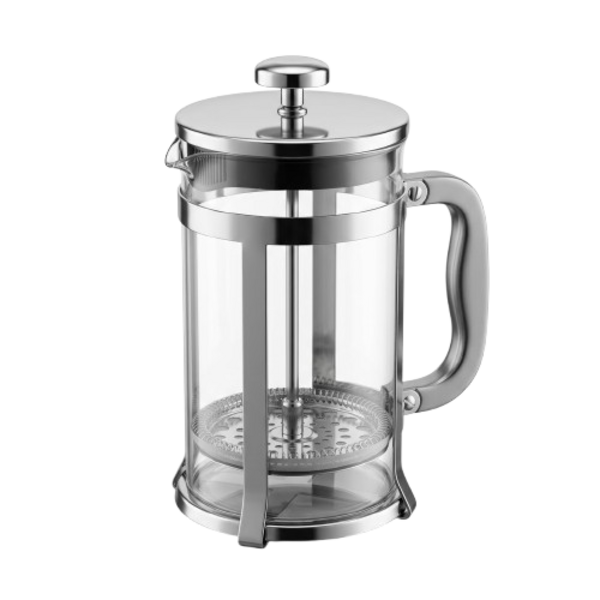
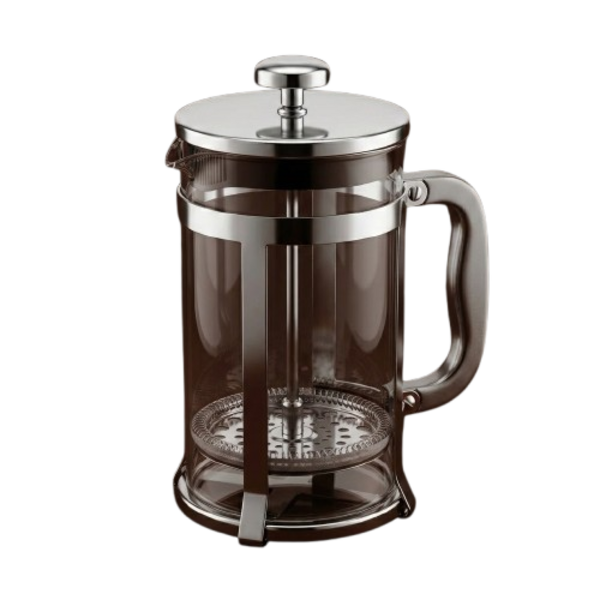
Reemplazar fotos de prensa francesa, V60 y moka por versiones sin fondo

Changed region(s): [[0.27, 0.21, 0.81, 0.93], [0.42, 0.12, 0.48, 0.15], [0.51, 0.12, 0.54, 0.15]]

diff --git a/app/components/ReviewReactions.tsx b/app/components/ReviewReactions.tsx
@@ -1,0 +1,107 @@
+"use client";
+
+import { useState, useRef, type ReactNode } from "react";
+
+const REACTION_EMOJIS = ["👍🏻", "👎🏻", "😂", "👀", "👄"];
+
+type ReactionCount = { emoji: string; count: number };
+
+export default function ReviewReactions({
+  reviewId,
+  initialReactions,
+  initialMyReaction,
+  children,
+}: {
+  reviewId: string;
+  initialReactions: ReactionCount[];
+  initialMyReaction: string | null;
+  children: ReactNode;
+}) {
+  const [reactions, setReactions] = useState<ReactionCount[]>(initialReactions);
+  const [myReaction, setMyReaction] = useState<string | null>(initialMyReaction);
+  const [showPicker, setShowPicker] = useState(false);
+  const [sending, setSending] = useState(false);
+  const timerRef = useRef<ReturnType<typeof setTimeout> | null>(null);
+
+  async function react(emoji: string) {
+    if (sending) return;
+    setSending(true);
+    setShowPicker(false);
+    try {
+      const res = await fetch(`/api/reviews/${reviewId}/reactions`, {
+        method: "POST",
+        headers: { "Content-Type": "application/json" },
+        body: JSON.stringify({ emoji }),
+      });
+      const data = await res.json();
+      if (data.ok) {
+        setReactions(data.reactions);
+        setMyReaction(data.myReaction);
+      }
+    } finally {
+      setSending(false);
+    }
+  }
+
+  function startPress() {
+    timerRef.current = setTimeout(() => setShowPicker(true), 450);
+  }
+  function cancelPress() {
+    if (timerRef.current) clearTimeout(timerRef.current);
+  }
+
+  return (
+    <div
+      className="relative bg-parchment/[0.04] border border-parchment-dim/15 rounded-sm p-5"
+      onMouseEnter={() => setShowPicker(true)}
+      onMouseLeave={() => setShowPicker(false)}
+      onTouchStart={startPress}
+      onTouchEnd={cancelPress}
+      onTouchMove={cancelPress}
+    >
+      {children}
+
+      {(reactions.length > 0 || showPicker) && (
+        <div className="flex items-center gap-1.5 flex-wrap mt-3 pt-3 border-t border-parchment-dim/15">
+          {reactions.length > 0
+            ? reactions.map((r) => (
+                <button
+                  key={r.emoji}
+                  type="button"
+                  onClick={() => react(r.emoji)}
+                  className={`flex items-center gap-1 px-2 py-0.5 rounded-full border text-xs transition-colors ${
+                    myReaction === r.emoji
+                      ? "border-crema bg-crema/10"
+                      : "border-parchment-dim/20 hover:border-parchment-dim/40"
+                  }`}
+                >
+                  <span>{r.emoji}</span>
+                  {r.count > 1 && (
+                    <span className="font-mono text-[10px] text-parchment-dim">{r.count}</span>
+                  )}
+                </button>
+              ))
+            : showPicker && (
+                <span className="font-mono text-[10px] text-parchment-dim/60">Reaccionar</span>
+              )}
+        </div>
+      )}
+
+      {showPicker && (
+        <div className="absolute bottom-full left-5 mb-1.5 flex gap-1 bg-ink-soft border border-parchment-dim/25 rounded-full px-2.5 py-1.5 shadow-xl z-20">
+          {REACTION_EMOJIS.map((emoji) => (
+            <button
+              key={emoji}
+              type="button"
+              onClick={() => react(emoji)}
+              aria-label={`Reaccionar con ${emoji}`}
+              className="text-lg hover:scale-125 transition-transform"
+            >
+              {emoji}
+            </button>
+          ))}
+        </div>
+      )}
+    </div>
+  );
+}

diff --git a/app/api/reviews/[id]/reactions/route.ts b/app/api/reviews/[id]/reactions/route.ts
@@ -1,0 +1,73 @@
+import { NextRequest, NextResponse } from 'next/server';
+import { getServerSession } from 'next-auth';
+import { authOptions } from '@/lib/auth';
+import sql from '@/lib/db';
+
+const ALLOWED_EMOJIS = ['👍🏻', '👎🏻', '😂', '👀', '👄'];
+
+export async function POST(req: NextRequest, { params }: { params: { id: string } }) {
+  const session = await getServerSession(authOptions);
+  if (!session?.user?.email) {
+    return NextResponse.json({ ok: false, error: 'Tenés que iniciar sesión.' }, { status: 401 });
+  }
+
+  const body = await req.json();
+  if (!ALLOWED_EMOJIS.includes(body.emoji)) {
+    return NextResponse.json({ ok: false, error: 'Emoji no permitido.' }, { status: 400 });
+  }
+
+  try {
+    const reviewRows = await sql`select user_email from coffee_reviews where id = ${params.id}`;
+    const review = reviewRows[0] as { user_email: string | null } | undefined;
+    if (!review) {
+      return NextResponse.json({ ok: false, error: 'No existe esa review.' }, { status: 404 });
+    }
+
+    // Solo podés reaccionar a reviews de gente con la que compartís algún grupo
+    const canSee = await sql`
+      select 1 from group_members gm1
+      join group_members gm2 on gm1.group_id = gm2.group_id
+      where gm1.user_email = ${session.user.email} and gm2.user_email = ${review.user_email}
+      limit 1
+    `;
+    if (canSee.length === 0) {
+      return NextResponse.json({ ok: false, error: 'No podés reaccionar a esta review.' }, { status: 403 });
+    }
+
+    const existing = await sql`
+      select emoji from review_reactions
+      where review_id = ${params.id} and user_email = ${session.user.email}
+    `;
+    const existingEmoji = (existing[0] as { emoji: string } | undefined)?.emoji;
+
+    let myReaction: string | null;
+    if (existingEmoji === body.emoji) {
+      await sql`
+        delete from review_reactions
+        where review_id = ${params.id} and user_email = ${session.user.email}
+      `;
+      myReaction = null;
+    } else {
+      await sql`
+        insert into review_reactions (review_id, user_email, emoji)
+        values (${params.id}, ${session.user.email}, ${body.emoji})
+        on conflict (review_id, user_email) do update set
+          emoji = excluded.emoji,
+          created_at = now()
+      `;
+      myReaction = body.emoji;
+    }
+
+    const counts = await sql`
+      select emoji, count(*)::int as count
+      from review_reactions
+      where review_id = ${params.id}
+      group by emoji
+    `;
+
+    return NextResponse.json({ ok: true, reactions: counts, myReaction });
+  } catch (err: any) {
+    console.error('Error al reaccionar:', err);
+    return NextResponse.json({ ok: false, error: 'No se pudo guardar la reacción.' }, { status: 500 });
+  }
+}

diff --git a/lib/reactions.ts b/lib/reactions.ts
@@ -1,0 +1,44 @@
+import sql from './db';
+import type { CoffeeReview } from './db';
+
+export async function attachReactions(
+  reviews: CoffeeReview[],
+  myEmail: string
+): Promise<CoffeeReview[]> {
+  const ids = reviews.map((r) => r.id).filter((id): id is string => !!id);
+  if (ids.length === 0) return reviews;
+
+  let counts: { review_id: string; emoji: string; count: number }[] = [];
+  let mine: { review_id: string; emoji: string }[] = [];
+
+  try {
+    counts = (await sql`
+      select review_id, emoji, count(*)::int as count
+      from review_reactions
+      where review_id = any(${ids})
+      group by review_id, emoji
+    `) as unknown as typeof counts;
+
+    mine = (await sql`
+      select review_id, emoji from review_reactions
+      where review_id = any(${ids}) and user_email = ${myEmail}
+    `) as unknown as typeof mine;
+  } catch (err) {
+    console.error('Error al traer reacciones:', err);
+    return reviews;
+  }
+
+  const byReview = new Map<string, { emoji: string; count: number }[]>();
+  for (const row of counts) {
+    const list = byReview.get(row.review_id) ?? [];
+    list.push({ emoji: row.emoji, count: row.count });
+    byReview.set(row.review_id, list);
+  }
+  const mineByReview = new Map(mine.map((m) => [m.review_id, m.emoji]));
+
+  return reviews.map((r) => ({
+    ...r,
+    reactions: r.id ? byReview.get(r.id) ?? [] : [],
+    myReaction: r.id ? mineByReview.get(r.id) ?? null : null,
+  }));
+}

diff --git a/app/components/ReviewCard.tsx b/app/components/ReviewCard.tsx
@@ -4,6 +4,7 @@ import type { CoffeeReview, Coffee } from "@/lib/db";
 import { ROAST_LABELS, PROCESS_LABELS, TEMPERATURE_LABELS } from "@/lib/constants";
 import StarRating from "./StarRating";
 import ReviewIllustration from "./ReviewIllustration";
+import ReviewReactions from "./ReviewReactions";
 
 const TEMPERATURE_STYLES: Record<string, { icon: typeof Snowflake; color: string }> = {
   frio: { icon: Snowflake, color: "#5A8FB8" },
@@ -45,7 +46,11 @@ export default function ReviewCard({
     : null;
 
   return (
-    <div className="bg-parchment/[0.04] border border-parchment-dim/15 rounded-sm p-5">
+    <ReviewReactions
+      reviewId={r.id ?? ""}
+      initialReactions={r.reactions ?? []}
+      initialMyReaction={r.myReaction ?? null}
+    >
       <div className="flex flex-col-reverse sm:flex-row gap-5">
         {/* Info — izquierda */}
         <div className="flex-1 min-w-0">
@@ -166,6 +171,6 @@ export default function ReviewCard({
           />
         </div>
       </div>
-    </div>
+    </ReviewReactions>
   );
 }

diff --git a/app/feed/page.tsx b/app/feed/page.tsx
@@ -6,6 +6,7 @@ import { authOptions } from "@/lib/auth";
 import sql from "@/lib/db";
 import type { CoffeeReview, Group } from "@/lib/db";
 import ReviewCard from "../components/ReviewCard";
+import { attachReactions } from "@/lib/reactions";
 
 export const dynamic = "force-dynamic";
 
@@ -67,6 +68,7 @@ export default async function FeedPage() {
         order by r.created_at desc
         limit 100
       `) as unknown as CoffeeReview[];
+      reviews = await attachReactions(reviews, myEmail);
     }
   } catch (err) {
     console.error("Error al cargar el feed:", err);
@@ -156,8 +158,11 @@ export default async function FeedPage() {
               <div className="space-y-10">
                 {reviews.map((r) => (
                   <div key={r.id}>
-                    <p className="font-mono text-[11px] text-parchment-dim mb-2">
-                      {r.created_at ? new Date(r.created_at).toLocaleString("es-AR") : ""}
+                    <p className="mb-2 flex items-baseline gap-2">
+                      <span className="font-mono text-xs text-parchment">{r.taster_name}</span>
+                      <span className="font-mono text-[11px] text-parchment-dim/70">
+                        {r.created_at ? new Date(r.created_at).toLocaleString("es-AR") : ""}
+                      </span>
                     </p>
                     <ReviewCard review={r} />
                   </div>

diff --git a/app/groups/[groupId]/activity/page.tsx b/app/groups/[groupId]/activity/page.tsx
@@ -4,6 +4,7 @@ import { authOptions } from "@/lib/auth";
 import sql from "@/lib/db";
 import type { CoffeeReview, Group } from "@/lib/db";
 import ReviewCard from "../../../components/ReviewCard";
+import { attachReactions } from "@/lib/reactions";
 import GroupTabs from "../../../components/GroupTabs";
 
 export const dynamic = "force-dynamic";
@@ -40,6 +41,7 @@ export default async function GroupActivityPage({ params }: { params: { groupId:
       order by r.created_at desc
       limit 100
     `) as unknown as CoffeeReview[];
+    reviews = await attachReactions(reviews, session.user.email);
   } catch (err) {
     console.error("Error al cargar la actividad:", err);
     error = "Hubo un problema al conectar con la base de datos. Probá de nuevo en un momento.";
@@ -63,8 +65,11 @@ export default async function GroupActivityPage({ params }: { params: { groupId:
         <div className="space-y-10">
           {reviews.map((r) => (
             <div key={r.id}>
-              <p className="font-mono text-[11px] text-parchment-dim mb-2">
-                {r.created_at ? new Date(r.created_at).toLocaleString("es-AR") : ""}
+              <p className="mb-2 flex items-baseline gap-2">
+                <span className="font-mono text-xs text-parchment">{r.taster_name}</span>
+                <span className="font-mono text-[11px] text-parchment-dim/70">
+                  {r.created_at ? new Date(r.created_at).toLocaleString("es-AR") : ""}
+                </span>
               </p>
               <ReviewCard review={r} />
             </div>

diff --git a/app/groups/[groupId]/members/[email]/page.tsx b/app/groups/[groupId]/members/[email]/page.tsx
@@ -5,6 +5,7 @@ import { authOptions } from "@/lib/auth";
 import sql from "@/lib/db";
 import type { CoffeeReview } from "@/lib/db";
 import ReviewCard from "../../../../components/ReviewCard";
+import { attachReactions } from "@/lib/reactions";
 import ActivityHeatmap from "../../../../components/ActivityHeatmap";
 import { formatRelativeTime } from "@/lib/formatRelativeTime";
 
@@ -57,6 +58,7 @@ export default async function MemberProfilePage({
       where r.user_email = ${targetEmail}
       order by r.created_at desc
     `) as unknown as CoffeeReview[];
+    reviews = await attachReactions(reviews, session.user.email);
 
     dailyCounts = (await sql`
       select to_char(created_at, 'YYYY-MM-DD') as date, count(*)::int as count
@@ -220,8 +222,11 @@ export default async function MemberProfilePage({
             <div className="space-y-10">
               {reviews.map((r) => (
                 <div key={r.id}>
-                  <p className="font-mono text-[11px] text-parchment-dim mb-2">
-                    {r.created_at ? new Date(r.created_at).toLocaleString("es-AR") : ""}
+                  <p className="mb-2 flex items-baseline gap-2">
+                    <span className="font-mono text-xs text-parchment">{r.taster_name}</span>
+                    <span className="font-mono text-[11px] text-parchment-dim/70">
+                      {r.created_at ? new Date(r.created_at).toLocaleString("es-AR") : ""}
+                    </span>
                   </p>
                   <ReviewCard review={r} showTaster={false} />
                 </div>

diff --git a/app/profile/page.tsx b/app/profile/page.tsx
@@ -6,6 +6,7 @@ import { authOptions } from "@/lib/auth";
 import sql from "@/lib/db";
 import type { CoffeeReview } from "@/lib/db";
 import ReviewCard from "../components/ReviewCard";
+import { attachReactions } from "@/lib/reactions";
 import ActivityHeatmap from "../components/ActivityHeatmap";
 import { formatRelativeTime } from "@/lib/formatRelativeTime";
 
@@ -32,6 +33,7 @@ export default async function ProfilePage() {
       where r.user_email = ${session.user.email}
       order by r.created_at desc
     `) as unknown as CoffeeReview[];
+    reviews = await attachReactions(reviews, session.user.email);
 
     const rows = (await sql`
       select to_char(created_at, 'YYYY-MM-DD') as date, count(*)::int as count
@@ -232,8 +234,11 @@ export default async function ProfilePage() {
             <div className="space-y-10">
               {reviews.map((r) => (
                 <div key={r.id}>
-                  <p className="font-mono text-[11px] text-parchment-dim mb-2">
-                    {r.created_at ? new Date(r.created_at).toLocaleString("es-AR") : ""}
+                  <p className="mb-2 flex items-baseline gap-2">
+                    <span className="font-mono text-xs text-parchment">{r.taster_name}</span>
+                    <span className="font-mono text-[11px] text-parchment-dim/70">
+                      {r.created_at ? new Date(r.created_at).toLocaleString("es-AR") : ""}
+                    </span>
                   </p>
                   <ReviewCard review={r} showTaster={false} editable />
                 </div>

diff --git a/lib/db.ts b/lib/db.ts
@@ -76,4 +76,7 @@ export type CoffeeReview = {
   tasting_notes?: string | null;
   // Llega cuando la consulta también hace JOIN con `brand_logos`
   brand_logo_url?: string | null;
+  // Se agregan aparte, no vienen del JOIN de la consulta principal
+  reactions?: { emoji: string; count: number }[];
+  myReaction?: string | null;
 };